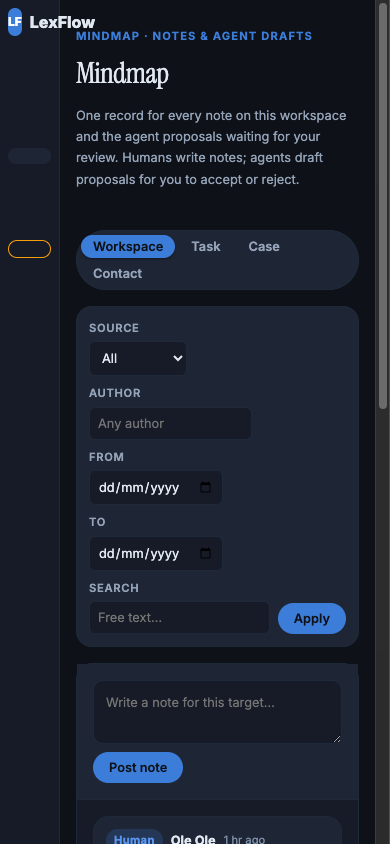
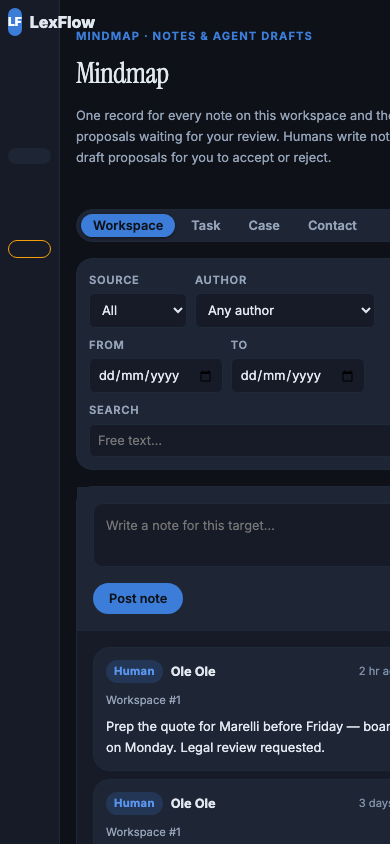
fix(mindmap): B2 UI fixes — chip class, author select, composer feedback, draft targets
- A: rename source chip class mm-chip.mm-draft -> mm-chip.mm-chip-draft to
  stop colliding with the draft-tray card class; chip now renders ~23px.
- C: Author filter becomes a <select> populated from loaded notes' distinct
  (author_id -> name/email), with 'Any author', always sends author_id.
- D: composer feedback moved to inline aria-live element next to Post note;
  server errors show there. Post note disabled with hint when no target id
  (Task/Case/Contact tabs resolve target_id to null).
- E: draft tray cards now render their target (Task #12 / Workspace #1).

Refreshed docs/mindmap-ui-1440.png and docs/mindmap-ui-390.png.

diff --git a/static/js/mindmap/mindmap.js b/static/js/mindmap/mindmap.js
@@ -27,6 +27,7 @@
   var trayList = document.getElementById('mm-tray-list');
   var composer = document.getElementById('mm-post');
   var composeBox = document.getElementById('mm-compose');
+  var postFeedback = document.getElementById('mm-post-feedback');
   var applyBtn = document.getElementById('mm-apply');
   var filters = {
     source: document.getElementById('mm-source'),
@@ -38,6 +39,7 @@
 
   var TARGET_LABEL = { workspace: 'Workspace', task: 'Task', case: 'Case', contact: 'Contact' };
   var ORIGIN_LABEL = { human_request: 'Human request', superior_agent: 'Superior agent', event_rule: 'Event rule' };
+  var NO_TARGET_HINT = 'Select a Task, Case or Contact to post a note for it.';
   var ACTIVE = { target_type: 'workspace', target_id: wsId };
   var loadingDrafts = false;
 
@@ -91,6 +93,10 @@
         var list = store.notes.slice();
         if (f.source) list = list.filter(function (n) { return n.source === f.source; });
         if (f.target_type) list = list.filter(function (n) { return n.target_type === f.target_type; });
+        if (f.author_id) {
+          var aid = String(f.author_id);
+          list = list.filter(function (n) { return String(n.author_id) === aid; });
+        }
         if (f.q) {
           var qq = f.q.toLowerCase();
           list = list.filter(function (n) {
@@ -190,13 +196,52 @@
   function chipFor(n) {
     if (n.source === 'agent') {
       // Promoted agent draft: never a send/email action — labelled "for review".
-      return '<span class="mm-chip mm-draft">Elisa draft</span>'
+      return '<span class="mm-chip mm-chip-draft">Elisa draft</span>'
         + '<span class="mm-chip mm-review">for review</span>';
     }
     return '<span class="mm-chip mm-human">Human</span>';
   }
 
   /* ---------- note stream ---------- */
+
+  // Rebuild the Author filter's <select> from the loaded notes' distinct authors,
+  // preserving the current selection so Apply/refresh keep the chosen filter.
+  function populateAuthorSelect(notes) {
+    if (!filters.author) return;
+    var current = filters.author.value;
+    var byId = {};
+    (notes || []).forEach(function (n) {
+      if (n.author_id === null || n.author_id === undefined) return;
+      byId[String(n.author_id)] = authorName(n);
+    });
+    var ids = Object.keys(byId);
+    var html = '<option value="">Any author</option>';
+    ids.forEach(function (id) { html += '<option value="' + esc(id) + '">' + esc(byId[id]) + '</option>'; });
+    filters.author.innerHTML = html;
+    if (current && byId[current] !== undefined) filters.author.value = current;
+  }
+
+  // Inline, persistent composer feedback (fixes silent post failures): aria-live element
+  // next to the Post button shows server errors/hints even when the draft tray is hidden.
+  function setComposerFeedback(msg, kind) {
+    if (!postFeedback) return;
+    postFeedback.textContent = msg || '';
+    postFeedback.className = 'mm-post-feedback mm-post-feedback-' + (kind || 'ok');
+    if (msg) composer.setAttribute('aria-describedby', 'mm-post-feedback');
+    else composer.removeAttribute('aria-describedby');
+  }
+
+  function updateComposerState() {
+    var hasTarget = ACTIVE.target_id !== null && ACTIVE.target_id !== undefined && ACTIVE.target_id !== '';
+    composer.disabled = !hasTarget;
+    if (hasTarget) {
+      composer.title = '';
+      setComposerFeedback('', 'ok');
+    } else {
+      composer.title = NO_TARGET_HINT;
+      setComposerFeedback(NO_TARGET_HINT, 'hint');
+    }
+  }
 
   function noteCard(n) {
     return '<article class="mm-card' + (n.source === 'agent' ? ' mm-agent' : '') + '">'
@@ -211,13 +256,11 @@
   }
 
   function buildParams() {
-    var authorRaw = filters.author.value.trim();
-    var authorId = /^\d+$/.test(authorRaw) ? authorRaw : '';
     return {
       target_type: ACTIVE.target_type,
       target_id: ACTIVE.target_id,
       source: filters.source.value,
-      author_id: authorId,
+      author_id: filters.author.value,
       date_from: filters.dateFrom.value,
       date_to: filters.dateTo.value,
       q: filters.q.value.trim()
@@ -231,6 +274,7 @@
     streamList.appendChild(loading);
     return api('/api/notes/' + qs(buildParams())).then(function (res) {
       var notes = res.ok && Array.isArray(res.data) ? res.data : [];
+      populateAuthorSelect(notes);
       if (!notes.length) {
         streamList.innerHTML = '<div class="mm-state">No notes yet for this target.</div>';
         return;
@@ -245,6 +289,10 @@
 
   function postNote() {
     var text = composeBox.value.trim();
+    if (composer.disabled || ACTIVE.target_id === null || ACTIVE.target_id === undefined) {
+      updateComposerState();
+      return;
+    }
     if (!text) { composeBox.focus(); return; }
     composer.disabled = true;
     api('/api/notes/', {
@@ -254,13 +302,14 @@
       composer.disabled = false;
       if (res.ok) {
         composeBox.value = '';
+        setComposerFeedback('Note posted.', 'ok');
         loadNotes();
       } else {
-        flashTray((res.data && res.data.error) || 'Could not post note.', 'err');
+        setComposerFeedback((res.data && res.data.error) || 'Could not post note.', 'err');
       }
     }).catch(function () {
       composer.disabled = false;
-      flashTray('Could not post note. Check your connection.', 'err');
+      setComposerFeedback('Could not post note. Check your connection.', 'err');
     });
   }
 
@@ -292,7 +341,10 @@
     var origin = ORIGIN_LABEL[d.origin] || d.origin;
     var ev = d.evidence ? '<div class="mm-evidence">' + esc(d.evidence) + '</div>' : '';
     return '<article class="mm-draft" data-id="' + d.id + '">'
-      + '<span class="mm-origin ' + esc(d.origin || '') + '">' + esc(origin) + '</span>'
+      + '<div class="mm-draft-top">'
+      +   '<span class="mm-origin ' + esc(d.origin || '') + '">' + esc(origin) + '</span>'
+      +   '<span class="mm-draft-target">' + esc(targetTag(d)) + '</span>'
+      + '</div>'
       + '<div class="mm-draft-content">' + esc(d.content) + '</div>'
       + ev
       + '<div class="mm-expiry">' + esc(countdown(d.expires_at)) + '</div>'
@@ -348,7 +400,8 @@
       btn.classList.add('active');
       ACTIVE.target_type = btn.getAttribute('data-target-type');
       var tid = btn.getAttribute('data-target-id');
-      if (tid) ACTIVE.target_id = parseInt(tid, 10);
+      ACTIVE.target_id = tid ? parseInt(tid, 10) : null;
+      updateComposerState();
       loadNotes();
     });
   });
@@ -380,6 +433,7 @@
     return b.getAttribute('data-target-type') === ACTIVE.target_type;
   })[0];
   if (activeTab) activeTab.classList.add('active');
+  updateComposerState();
   loadNotes();
   loadDrafts();
   // Keep the tray's expiry countdowns fresh.

diff --git a/static/css/mindmap/mindmap.css b/static/css/mindmap/mindmap.css
@@ -42,6 +42,7 @@
 }
 .mm-field select:focus, .mm-field input:focus { border-color: var(--accent); outline: none; box-shadow: 0 0 0 2px var(--accent-glow); }
 .mm-src { width: 130px; }
+.mm-author { width: 180px; }
 .mm-q { flex: 1 1 180px; max-width: 260px; }
 
 .mm-btn {
@@ -68,6 +69,10 @@
   color: var(--text); font-size: var(--text-sm); font-family: inherit; line-height: 1.5;
 }
 .mm-composer textarea:focus { border-color: var(--accent); outline: none; box-shadow: 0 0 0 2px var(--accent-glow); }
+.mm-post-feedback { font-size: var(--text-xs); line-height: 1.4; color: var(--text-muted); }
+.mm-post-feedback-ok { color: var(--success); }
+.mm-post-feedback-err { color: var(--warning); }
+.mm-post-feedback-hint { color: var(--text-muted); }
 
 /* Note stream */
 .mm-stream-list { display: flex; flex-direction: column; gap: var(--space-2); padding: var(--space-4); }
@@ -89,7 +94,7 @@
   letter-spacing: .03em; background: var(--accent-glow); color: var(--accent-h); white-space: nowrap;
 }
 .mm-chip.mm-human { background: var(--accent-glow); color: var(--accent-h); }
-.mm-chip.mm-draft { background: color-mix(in srgb, var(--teal) 16%, var(--surface)); color: var(--teal-h); }
+.mm-chip.mm-chip-draft { background: color-mix(in srgb, var(--teal) 16%, var(--surface)); color: var(--teal-h); }
 .mm-chip.mm-review { background: var(--surface); color: var(--text-muted); border: 1px solid var(--border); }
 
 .mm-content {
@@ -112,6 +117,8 @@
   padding: var(--space-3); background: var(--surface-2); border: 1px solid var(--border);
   border-radius: var(--radius-md); display: flex; flex-direction: column; gap: var(--space-2); min-width: 0;
 }
+.mm-draft-top { display: flex; align-items: center; gap: var(--space-2); flex-wrap: wrap; }
+.mm-draft-target { font-size: var(--text-xs); font-weight: 600; color: var(--text-muted); white-space: nowrap; }
 .mm-origin {
   align-self: flex-start; padding: 2px 8px; border-radius: var(--radius-sm); font-size: var(--text-xs);
   font-weight: 700; text-transform: uppercase; letter-spacing: .05em; color: var(--text-muted);

diff --git a/static/demo/mindmap_preview.html b/static/demo/mindmap_preview.html
@@ -98,7 +98,7 @@
             <option value="">All</option><option value="human">Human</option><option value="agent">Elisa draft</option>
           </select>
         </label>
-        <label class="mm-field"><span class="mm-field-label">Author</span><input id="mm-author" type="text" placeholder="Any author" aria-label="Author"></label>
+        <label class="mm-field mm-author"><span class="mm-field-label">Author</span><select id="mm-author" aria-label="Author"><option value="">Any author</option></select></label>
         <label class="mm-field"><span class="mm-field-label">From</span><input id="mm-date-from" type="date" aria-label="Date from"></label>
         <label class="mm-field"><span class="mm-field-label">To</span><input id="mm-date-to" type="date" aria-label="Date to"></label>
         <label class="mm-field mm-q"><span class="mm-field-label">Search</span><input id="mm-q" type="search" placeholder="Free text…" aria-label="Search notes"></label>
@@ -109,6 +109,7 @@
         <div class="mm-stream card stack">
           <div class="mm-composer" id="mm-composer">
             <textarea id="mm-compose" rows="2" placeholder="Write a note for this target…" aria-label="New note"></textarea>
+            <span class="mm-post-feedback" id="mm-post-feedback" aria-live="polite"></span>
             <button class="mm-btn mm-post" id="mm-post" type="button">Post note</button>
           </div>
           <div class="mm-stream-list" id="mm-stream-list" aria-live="polite" aria-label="Note stream"></div>

diff --git a/templates/mindmap.html b/templates/mindmap.html
@@ -45,9 +45,11 @@
         <option value="agent">Elisa draft</option>
       </select>
     </label>
-    <label class="mm-field">
+    <label class="mm-field mm-author">
       <span class="mm-field-label">Author</span>
-      <input id="mm-author" type="text" placeholder="Any author" aria-label="Author">
+      <select id="mm-author" aria-label="Author">
+        <option value="">Any author</option>
+      </select>
     </label>
     <label class="mm-field">
       <span class="mm-field-label">From</span>
@@ -68,6 +70,7 @@
     <div class="mm-stream card stack">
       <div class="mm-composer" id="mm-composer">
         <textarea id="mm-compose" rows="2" placeholder="Write a note for this target…" aria-label="New note"></textarea>
+        <span class="mm-post-feedback" id="mm-post-feedback" aria-live="polite"></span>
         <button class="mm-btn mm-post" id="mm-post" type="button">Post note</button>
       </div>
       <div class="mm-stream-list" id="mm-stream-list" aria-live="polite" aria-label="Note stream">
